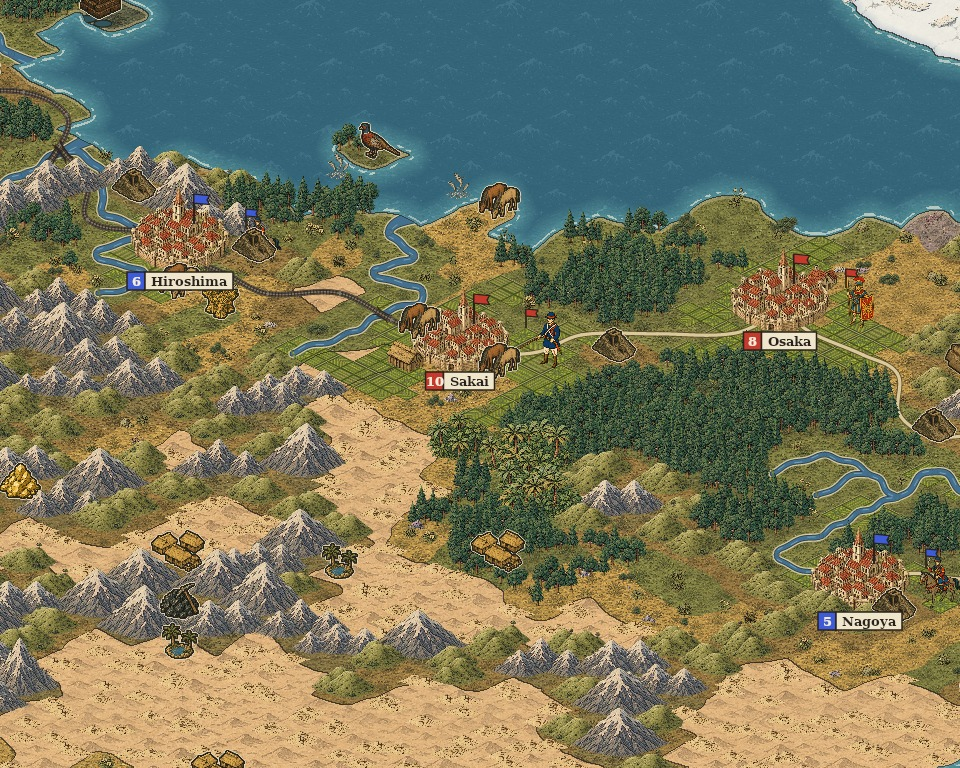
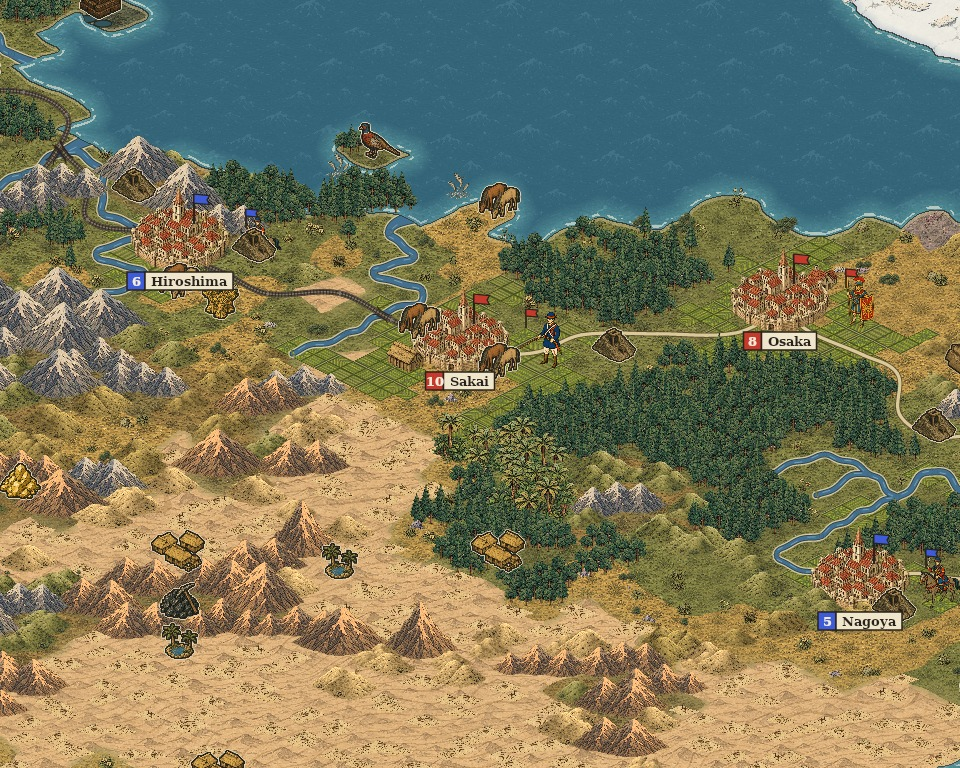
Iso view: mountains and hills for their surroundings, soft desert edges
Mountains and hills take their art from where they stand: alpine peaks
under heavy snow near the poles or beside the cold, bare tan rock with
no snow among desert, temperate grey rock elsewhere; hills as green
downs on grassland, dry ochre among plains, sandy rock in desert and
cold grey-green beside tundra. The ground under them is the ground
around them, so a range in the desert no longer brings a green patch.
Sand and grass meet without an ink line: a patchy belt of dry scrub on
the green side, flecks of green on the sand side, and wind ripples
inside the desert. Trees, jungle, peaks, hills and dunes also come
mirrored (hills also smaller), hills vary in number per cell, and woods
reach past their cell's edges. ISO_TRANSECT renders a strip from the
pole to the equator with every zone, a mountain and hill group in each,
a river and a coast.

Claude-Session: https://claude.ai/code/session_01VGBb6mKQ3kspS5r6m29MiP

diff --git a/src/Graphics/IsoView.cs b/src/Graphics/IsoView.cs
@@ -221,6 +221,52 @@ namespace OpenCivOne.Graphics
 
 			view.sets["lone"] = lone;
 
+			// variety: every tree, jungle, peak, hill and dune sprite also mirrored, and hills a size smaller too, so groups
+			// of them do not repeat the same shapes in rows
+			foreach (string set in new[] { "trees", "jungle", "peaks", "hills", "dunes" })
+			{
+				var more = new List<SKBitmap>(view.sets[set]);
+
+				foreach (SKBitmap b in view.sets[set])
+				{
+					more.Add(Mirror(b));
+
+					if (set == "hills")
+						more.Add(b.Resize(new SKImageInfo(Math.Max(1, (int)(b.Width * 0.8f)), Math.Max(1, (int)(b.Height * 0.8f))), new SKSamplingOptions(SKCubicResampler.Mitchell)));
+				}
+
+				view.sets[set] = more;
+			}
+
+			// mountains and hills for their surroundings, drawn from the same art: arid peaks of bare tan rock with no snow,
+			// alpine peaks under heavy snow, and hills of dry ochre grass, sand and rock, or cold grey-green
+			view.sets["peaks_arid"] = view.sets["peaks"].ConvertAll(b => Recolour(b, (r, g, bl) =>
+			{
+				float v = MathF.Max(r, MathF.Max(g, bl)) / 255, sat = v <= 0 ? 0 : 1 - (MathF.Min(r, MathF.Min(g, bl)) / 255 / v);
+				return sat < 0.2f && v > 0.68f ? (204 * v, 168 * v, 124 * v) : ((r * 1.1f) + 8, g * 0.95f, bl * 0.74f);
+			}));
+			view.sets["peaks_alpine"] = view.sets["peaks"].ConvertAll(b => Recolour(b, (r, g, bl) =>
+			{
+				float v = MathF.Max(r, MathF.Max(g, bl)) / 255, sat = v <= 0 ? 0 : 1 - (MathF.Min(r, MathF.Min(g, bl)) / 255 / v);
+				float snow = sat < 0.3f ? Math.Clamp((v - 0.5f) / 0.2f, 0, 1) : 0;
+				return ((r * 0.9f) + ((242 - (r * 0.9f)) * snow), (g * 0.94f) + ((244 - (g * 0.94f)) * snow), (bl * 1.04f) + ((248 - (bl * 1.04f)) * snow));
+			}));
+
+			(float, float, float) Grass(float r, float g, float bl, float kr, float kg, float kb, float lift)
+			{
+				// only the grass-green pixels take the new colour; ink lines and earth keep theirs
+				// (grass here is olive to green: green at least near red and well above blue, and not dark ink)
+				if (!(g >= r * 0.78f && g > bl * 1.12f && g > 50))
+					return (r, g, bl);
+
+				float lum = (r + g + bl) / 3;
+				return ((lum * kr) + lift, (lum * kg) + (lift * 0.7f), (lum * kb) + (lift * 0.2f));
+			}
+
+			view.sets["hills_dry"] = view.sets["hills"].ConvertAll(b => Recolour(b, (r, g, bl) => Grass(r, g, bl, 1.24f, 1.06f, 0.6f, 18)));
+			view.sets["hills_sand"] = view.sets["hills"].ConvertAll(b => Recolour(b, (r, g, bl) => Grass(r, g, bl, 1.34f, 1.14f, 0.82f, 46)));
+			view.sets["hills_cold"] = view.sets["hills"].ConvertAll(b => Recolour(b, (r, g, bl) => Grass(r, g, bl, 1.02f, 1.0f, 0.98f, 18)));
+
 			// the scattered bushes and lone trees in the ground's olive family, not blue-green, so they do not speckle it
 			foreach (string set in new[] { "tufts", "lone" })
 			{
@@ -443,6 +489,58 @@ namespace OpenCivOne.Graphics
 
 			bool ExploredAt(int x, int y) => y >= 0 && y < MapHeight && scene.Explored(Wrap(x), y);
 
+			// the kinds of land around a cell: desert, plains, grassland (with rivers), and cold land (tundra and arctic)
+			(int Desert, int Plains, int Green, int Cold) Neighbourhood(int x, int y)
+			{
+				int desert = 0, plains = 0, green = 0, cold = 0;
+
+				for (int dy = -1; dy <= 1; dy++)
+				{
+					for (int dx = -1; dx <= 1; dx++)
+					{
+						if (dx == 0 && dy == 0)
+							continue;
+
+						int n = TerrainAt(x + dx, y + dy);
+						desert += n == Desert ? 1 : 0;
+						plains += n == Plains ? 1 : 0;
+						green += n is Grassland or River ? 1 : 0;
+						cold += n is Tundra or Arctic ? 1 : 0;
+					}
+				}
+
+				return (desert, plains, green, cold);
+			}
+
+			// the ground under mountains and hills is the ground around them: sand among desert, tundra in the cold, and
+			// for hills the grass or plains beside them, so a range in the desert does not bring a green patch with it
+			var groundCache = new Dictionary<(int, int), int>();
+
+			int GroundTerrainAt(int x, int y)
+			{
+				if (groundCache.TryGetValue((x, y), out int g))
+					return g;
+
+				g = TerrainAt(x, y);
+
+				if (g == Mountains || g == Hills)
+				{
+					(int desert, int plains, int green, int cold) = Neighbourhood(x, y);
+
+					if (desert >= 3)
+						g = Desert;
+					else if (cold >= 3)
+						g = Tundra;
+					else if (g == Hills && plains > green && plains >= 2)
+						g = Plains;
+					else if (g == Hills && green >= 2)
+						g = Grassland;
+				}
+
+				groundCache[(x, y)] = g;
+				return g;
+			}
+
 			// pass 1: the ground of every pixel, the terrain its nearby cells vote for (hard edges, rounded shapes), and how
 			// much it is under mist
 			int[] kind = new int[w * h];
@@ -478,7 +576,7 @@ namespace OpenCivOne.Graphics
 							// past the poles the ice cap carries on, rather than a dark void at the world's edge
 							// (shown once the pole beside it is explored; until then the mist carries on too)
 							bool offMap = y < 0 || y >= MapHeight;
-							int t = offMap ? Arctic : TerrainAt(x, y);
+							int t = offMap ? Arctic : GroundTerrainAt(x, y);
 							bool known = offMap ? ExploredAt(x, Math.Clamp(y, 0, MapHeight - 1)) : (t >= 0 && ExploredAt(x, y));
 							total += wgt;
 
@@ -582,6 +680,8 @@ namespace OpenCivOne.Graphics
 			float[] seaDist = Distance(kind, w, h, k => k != Sea);
 			float[] snowDist = Distance(kind, w, h, k => k != Snow);
 			float[] landDist = Distance(kind, w, h, k => k == Sea);
+			float[] toSand = Distance(kind, w, h, k => k == Sand);
+			float[] toGrass = Distance(kind, w, h, k => k == Grass);
 
 			for (int py = 0; py < h; py++)
 			{
@@ -623,6 +723,37 @@ namespace OpenCivOne.Graphics
 						r = (r * 0.55f) + (214 * 0.45f);
 						g = (g * 0.55f) + (198 * 0.45f);
 						b = (b * 0.55f) + (150 * 0.45f);
+					}
+
+					// desert edges, without an outline: on the green side a belt of dry scrub, patchy, fading out from the
+					// sand; on the sand side flecks of the green ground, so the two meet along a ragged edge that ignores
+					// the tiles; and inside the desert, faint ripples of wind-blown sand
+					if (kind[i] == Grass && toSand[i] < 16)
+					{
+						float patch = Noise(gx0, gy0, 2.2f, 41);
+						float dry = (1 - (toSand[i] / 16)) * Math.Clamp((patch * 1.3f) - 0.1f, 0, 1) * 0.6f;
+						r += (178 - r) * dry;
+						g += (160 - g) * dry;
+						b += (102 - b) * dry;
+					}
+					else if (kind[i] == Sand)
+					{
+						if (toGrass[i] < 9 && Noise(gx0, gy0, 3.4f, 43) > 0.35f + (toGrass[i] / 18))
+						{
+							float fleck = (1 - (toGrass[i] / 9)) * 0.55f;
+							r += (150 - r) * fleck;
+							g += (142 - g) * fleck;
+							b += (84 - b) * fleck;
+						}
+
+						float ripple = MathF.Sin(((gx0 * 2.1f) + (gy0 * 0.9f) + (Noise(gx0, gy0, 0.9f, 45) * 2.6f)) * 6.2832f * 1.7f);
+
+						if (ripple > 0.9f && toGrass[i] > 6)
+						{
+							r *= 0.9f;
+							g *= 0.88f;
+							b *= 0.84f;
+						}
 					}
 
 					// fields, as in the mockup: each field cell divided into 3 x 3 plots along the cell's axes, yellow-greens from
@@ -705,7 +836,9 @@ namespace OpenCivOne.Graphics
 						}
 					}
 
-					bool edge = (px + 1 < w && kind[i + 1] != kind[i]) || (py + 1 < h && kind[i + w] != kind[i]);
+					// an ink line where two kinds of ground meet, but not between sand and grass, which blend instead
+					bool Differs(int j) => kind[j] != kind[i] && !((kind[j] == Sand && kind[i] == Grass) || (kind[j] == Grass && kind[i] == Sand));
+					bool edge = (px + 1 < w && Differs(i + 1)) || (py + 1 < h && Differs(i + w));
 
 					if (edge)
 					{
@@ -1297,12 +1430,48 @@ namespace OpenCivOne.Graphics
 
 			bool busy = false;
 
+			// how far a row is from the equator, 0 there and 1 at the poles
+			float Latitude(int y) => MathF.Abs(y - ((MapHeight - 1) / 2f)) / ((MapHeight - 1) / 2f);
+
+			// mountains for their place: alpine near the poles or beside the cold, arid among desert or near the equator
+			// with desert beside them, temperate grey rock with small snow tips everywhere else
+			string PeakSet(int x, int y)
+			{
+				(int desert, int _, int _, int cold) = Neighbourhood(x, y);
+
+				if (Latitude(y) > 0.66f || cold >= 2)
+					return "peaks_alpine";
+
+				if (desert >= 3 || (Latitude(y) < 0.25f && desert >= 1))
+					return "peaks_arid";
+
+				return "peaks";
+			}
+
+			// hills for their place: sandy rock among desert, cold grey-green beside tundra, dry ochre among plains,
+			// green downs on grassland
+			string HillSet(int x, int y)
+			{
+				(int desert, int plains, int green, int cold) = Neighbourhood(x, y);
+
+				if (desert >= 3)
+					return "hills_sand";
+
+				if (cold >= 3)
+					return "hills_cold";
+
+				if (plains > green)
+					return "hills_dry";
+
+				return "hills";
+			}
+
 			void Put(string set, int x, int y, int n, float margin, float lift = 0)
 			{
 				SKBitmap? b = Pick(set, x, y, n);
 
 				// fields are open ground, as in the mockup: nothing grows on them but the crops
-				if (b == null || (set != "peaks" && set != "hamlet" && IsFieldCell(x, y)))
+				if (b == null || (!set.StartsWith("peaks") && set != "hamlet" && IsFieldCell(x, y)))
 					return;
 
 				float fx = margin + (Hash(Wrap(x), y, 200 + n) * (1 - (2 * margin))), fy = margin + (Hash(Wrap(x), y, 300 + n) * (1 - (2 * margin)));
@@ -1320,7 +1489,7 @@ namespace OpenCivOne.Graphics
 					return;
 
 				// roads stay in view: a tree, bush or hill whose sprite would cover one is left out
-				if (set != "peaks" && HidesRoute(p.X, p.Y + lift, b))
+				if (!set.StartsWith("peaks") && HidesRoute(p.X, p.Y + lift, b))
 					return;
 
 				items.Add((p.Y + lift, p.X, b));
@@ -1347,20 +1516,21 @@ namespace OpenCivOne.Graphics
 
 				switch (t)
 				{
+					// woods reach a little past their cell's edges, so their outline does not follow the tiles
 					case Forest:
 						for (int n = 0; n < 10; n++)
-							Put("trees", x, y, n, 0.04f);
+							Put("trees", x, y, n, n < 7 ? 0.04f : -0.14f);
 						break;
 
 					case Jungle:
 						for (int n = 0; n < 8; n++)
-							Put("jungle", x, y, n, 0.04f);
+							Put("jungle", x, y, n, n < 6 ? 0.04f : -0.14f);
 						break;
 
 					case Mountains:
 						if (busy)
 						{
-							SKBitmap? peak = Pick("peaks", x, y, 0);
+							SKBitmap? peak = Pick(PeakSet(x, y), x, y, 0);
 
 							if (peak != null)
 							{
@@ -1370,13 +1540,14 @@ namespace OpenCivOne.Graphics
 						}
 						else
 						{
-							Put("peaks", x, y, 0, 0.45f, 10 * S);
+							Put(PeakSet(x, y), x, y, 0, 0.45f, 10 * S);
 						}
 						break;
 
 					case Hills:
-						for (int n = 0; n < 2; n++)
-							Put("hills", x, y, n, 0.25f, 8 * S);
+						count = 1 + (int)(Hash(Wrap(x), y, 9) * 2.6f);
+						for (int n = 0; n < count; n++)
+							Put(HillSet(x, y), x, y, n, 0.2f, 8 * S);
 						break;
 
 					case Desert:
@@ -1728,6 +1899,42 @@ namespace OpenCivOne.Graphics
 					canvas.DrawPath(rail, parapet);
 				}
 			}
+		}
+
+		// a sprite mirrored left to right
+		private static SKBitmap Mirror(SKBitmap b)
+		{
+			SKBitmap m = new SKBitmap(b.Width, b.Height, SKColorType.Bgra8888, SKAlphaType.Premul);
+			using SKCanvas c = new SKCanvas(m);
+			c.Clear(SKColors.Transparent);
+			c.Scale(-1, 1, b.Width / 2f, 0);
+			c.DrawBitmap(b, 0, 0);
+			return m;
+		}
+
+		// a sprite with every pixel's colour changed by the given function (colour without the alpha's premultiplying)
+		private static SKBitmap Recolour(SKBitmap b, Func<float, float, float, (float R, float G, float B)> change)
+		{
+			SKBitmap result = new SKBitmap(b.Width, b.Height, SKColorType.Bgra8888, SKAlphaType.Premul);
+
+			for (int y = 0; y < b.Height; y++)
+			{
+				for (int x = 0; x < b.Width; x++)
+				{
+					SKColor c = b.GetPixel(x, y);
+
+					if (c.Alpha == 0)
+					{
+						result.SetPixel(x, y, SKColors.Transparent);
+						continue;
+					}
+
+					(float r, float g, float bl) = change(c.Red, c.Green, c.Blue);
+					result.SetPixel(x, y, new SKColor((byte)Math.Clamp(r, 0, 255), (byte)Math.Clamp(g, 0, 255), (byte)Math.Clamp(bl, 0, 255), c.Alpha));
+				}
+			}
+
+			return result;
 		}
 
 		private static SKPaint Stroke(SKColor colour, float width)

diff --git a/tests/HDLayerTests/Program.cs b/tests/HDLayerTests/Program.cs
@@ -687,6 +687,55 @@ GBitmap other4()
 		Console.WriteLine("scene written");
 	}
 
+	// ISO_TRANSECT renders a strip of land from the pole to the equator: arctic, tundra, conifer forest, grassland,
+	// plains, desert and jungle in that order, each zone with a mountain group, a hill group, the river that runs
+	// through them all and a stretch of coast, so every terrain variant and every border can be judged in one picture
+	if (Environment.GetEnvironmentVariable("ISO_TRANSECT") is string transectOut && Environment.GetEnvironmentVariable("ISO_THEME") is string transectTheme)
+	{
+		const int Desert = 0, Plains = 1, Grassland = 2, Forest = 3, Hills = 4, Mountains = 5, Tundra = 6, Arctic = 7, Jungle = 9, Water = 10, River = 11;
+		// the zones, by row: (first row, terrain)
+		(int From, int Terrain)[] zones = { (0, Arctic), (2, Tundra), (6, Forest), (11, Grassland), (15, Plains), (19, Desert), (24, Jungle) };
+
+		int Zone(int y)
+		{
+			int t = zones[0].Terrain;
+			foreach (var z in zones) if (y >= z.From) t = z.Terrain;
+			return t;
+		}
+
+		int StripTerrain(int x, int y)
+		{
+			if (y > 29 || x < 30 || x > 46) return Water;
+			int zone = Zone(y);
+			int zoneTop = 0;
+			foreach (var z in zones) if (y >= z.From) zoneTop = z.From;
+			int mid = zoneTop + 1;
+
+			// the coast: ragged, a cell in or out by row
+			if (x >= 45 + ((y * 7) % 3 == 0 ? 1 : 0)) return Water;
+			// the river down the middle of every zone, then east to the sea
+			if (y >= 2 && x == 41 && y < 29) return River;
+			if (y == 29 && x >= 41) return x <= 44 ? River : Water;
+			if (zone == Arctic) return Arctic;
+			// a mountain group and a hill group in each zone
+			if (y >= mid && y <= mid + 1 && (x == 32 || x == 33) && !(x == 33 && y == mid + 1)) return Mountains;
+			if (y >= mid && y <= mid + 1 && (x == 36 || x == 37)) return Hills;
+			// conifer forest with clearings, grassland with a wood, plains with a little grass
+			if (zone == Forest && (x * 5 + y * 3) % 7 == 0) return Grassland;
+			if (zone == Grassland && x == 39 && y == 13) return Forest;
+			return zone;
+		}
+
+		var tView = OpenCivOne.Graphics.IsoView.Load(transectTheme, 2400, 1300)!;
+		var tScene = new OpenCivOne.Graphics.IsoView.Scene { Terrain = StripTerrain };
+		tView.Render(40, 15, tScene);
+		using var tImg = new SKBitmap(2400, 1300, SKColorType.Bgra8888, SKAlphaType.Premul);
+		Marshal.Copy(Array.ConvertAll(tView.Pixels, v => unchecked((int)v)), 0, tImg.GetPixels(), tView.Pixels.Length);
+		using var tFile = File.Create(transectOut);
+		tImg.Encode(tFile, SKEncodedImageFormat.Png, 100);
+		Console.WriteLine("transect written");
+	}
+
 	// ISO_SHOWCASE renders a developed world into a folder: a large continent with every terrain, rivers from the
 	// mountains to the sea, cities of many sizes joined by roads and a railroad, irrigated fields, mines, a fortress,
 	// pollution, huts, resources and units; an overview and close views of three cities, so the art can be judged as
